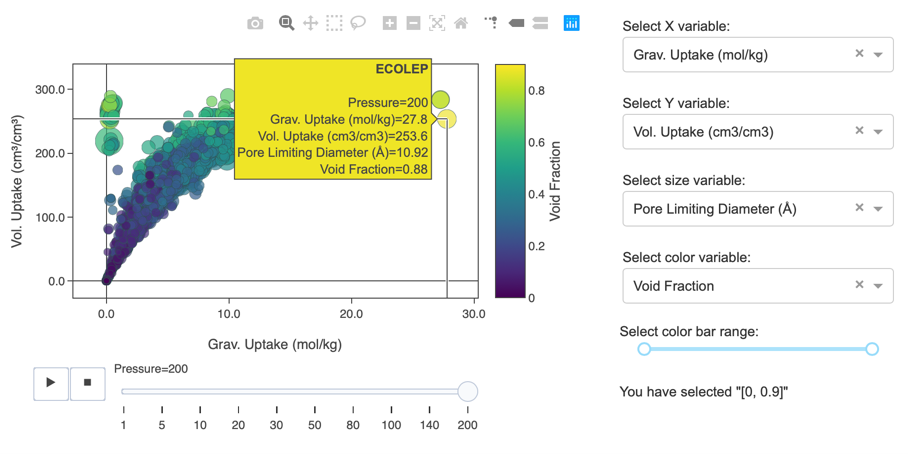
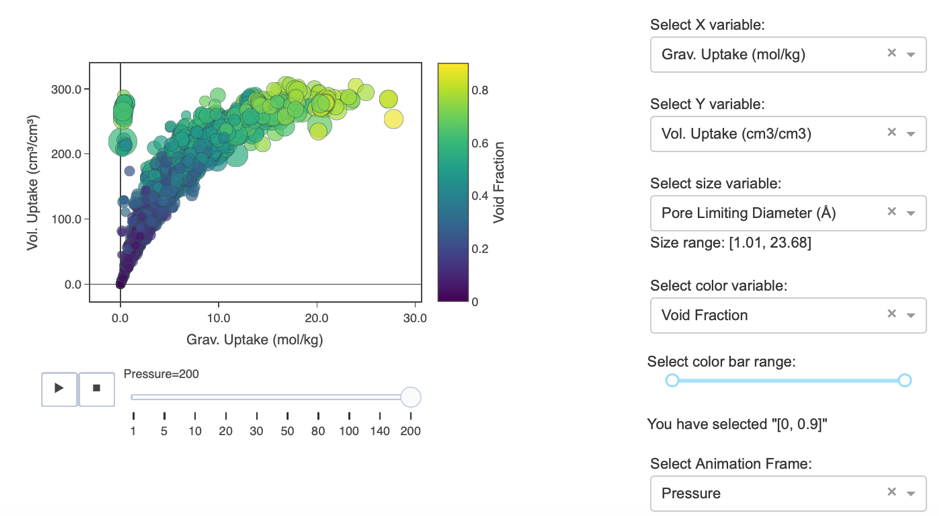
Deployed 89f0962 with MkDocs version: 1.1

diff --git a/index.html b/index.html
@@ -166,7 +166,7 @@
     Note: After a period of inactivity, Heorku shuts down the app's containers. Once the app gets a web request (the link above is clicked), it will wake up, but the initial response can take 10-20 seconds</li>
 </ul>
 <h2 id="about"><strong>About</strong></h2>
-<p><p>These tools aim to provide a reproducible and consistent data visualisation platform where experimental and computational researchers can use big data and statistical analysis to explore their data or the adsorption related data we provide to find the best materials for specific applications.  Improving from the <a href="http://aam.ceb.cam.ac.uk/visualisedata.html">original</a> Metal-organic Framework (MOF) Explorer, this tool now allows  individuals  to  upload  their  own  data  set  to  analyse  data  in  a  2D  and 3D environment, filter data through the interactive data table and also perform statistical analysis on top performing structures.</p>
+<p><p>These tools aim to provide a reproducible and consistent data visualisation platform where experimental and computational researchers can use big data and statistical analysis to explore their data or the adsorption related data we provide to find the best materials for specific applications.  Improving from the <a href="http://aam.ceb.cam.ac.uk/visualisedata.html">original</a> Metal-organic Framework (MOF) Explorer, this tool now allows  individuals  to  upload  their  own  data  set  to  analyse  data  in  a  2D  and 3D environment in a animation frame, filter data through the interactive data table and also perform statistical analysis on top performing structures.</p>
 <p align="center"> 
   <img src="https://raw.githubusercontent.com/aaml-analytics/mof-explorer/master/explorer-screenshot.png">
 </p>
@@ -177,9 +177,9 @@
 <strong>2.</strong>  The uploaded datasheet must have the structure name or identifier on its first column (shown in table 1). <br>
 <strong>3.</strong>  The uploaded datasheet must be completely populated (no blank cells). Blank cells can be replaced to ‘0’ using the ‘Replace All’ function in Excel <br>
 <strong>4.</strong>  If required, data must be transposed so that there is a single column stating the variables simulated with a column of the pressures used. Example data files before e.g. <code>AAML_Oxygen_Raw_Data.csv</code> and after transposition <code>AAML_Oxygen_Data.csv</code> can be found <a href="https://github.com/aaml-analytics/mof-explorer/tree/master/sample-data">here</a> <br>
-<strong>5.</strong> For the MOF Explorer Animation, pressures for the pressure frame must have the column heading ‘Pressure’. Include this column even if your data does not have multiple pressures and state the pressure your simulation has run on. <br>
+<strong>5.</strong> For the MOF Explorer Animation, a discrete numerical data variable column must be present in your data set. This is a column that contains integer type values (not floats). A suitable column for example would be a column containing different pressures used to run simulations/experiments of 1, 5, 10, 20 and 50 bar. Include this column even if your data does not have multiple pressures and state the pressure your simulation has run on as you must have at least one animation frame column type to run the MOF Explorer Animation tab. <br>
 <strong>6.</strong>  If you have the Structure Groupings (MOF families for example) in your dataset, the column must have the heading ‘Family’ (shown in table 1). <br>
-Example files showing datasets before and after being transposed can be seen in the <a href="https://github.com/aaml-analytics/mof-explorer/tree/master/sample-data">GitHub repository</a>. Excels formatting capabilities, Bash and Python were used to transpose and fit aforementioned files to the above criteria. <br></p>
+Example files showing datasets before and after being transposed can be seen in the <a href="https://github.com/aaml-analytics/mof-explorer/tree/master/sample-data">GitHub repository</a>. Excels formatting capabilities, Bash and Python were and can be used to transpose and fit aforementioned files to the above criteria. <br></p>
 <p><strong><em>Table 1: Example File Upload</em></strong></p>
 <table>
 <thead>
@@ -329,7 +329,7 @@ Example files showing datasets before and after being transposed can be seen in 
 <strong><em>Figure 10: Reset Camera to last save </em></strong> <br></p>
 <h2 id="mof-explorer-animation"><strong>MOF Explorer Animation</strong></h2>
 <h4 id="auto-scaling-animations"><strong>Auto scaling animations</strong></h4>
-<p>With all animations, auto range in frames is currently not supported in Plotly. Therefore, the user must slide the maximum pressure frame and press the auto scale button on the toolbar at the top right side of the plot. The user can then press play and the range will auto scale automatically. 
+<p>With all animations, auto range in frames is currently not supported in Plotly. Therefore, the user must slide the maximum animation frame and press the auto scale button on the toolbar at the top right side of the plot. The user can then press play and the range will auto scale automatically. 
 <p>
   <img width="250" height="50" src="https://raw.githubusercontent.com/aaml-analytics/mof-explorer/master/MkDocs/autoscale.png">
 </p>
@@ -338,7 +338,7 @@ Example files showing datasets before and after being transposed can be seen in 
 <p><p>
   <img width="450" height="250" src="https://raw.githubusercontent.com/aaml-analytics/mof-explorer/master/MkDocs/2d-anim.png">
 </p>
-The 2D Animation Environment provides a 2, 3, and 4 Dimensional variable environment to explore specific structures against pressure to find the best materials for the users applications. Pressing the ‘2’, ‘3’, ‘4’ tab plots a 2D, 3D and 4D variable environment respectively. Populate ALL the dropdowns to produce your plot. The tab of the dashboard will be ‘Updating…’ and then return to ‘Dash’ once your command has been fully executed. Clicking Play and pause will play and pause your animation respectively. You can also use the slider to pause the animation at a specific pressure.</p>
+The 2D Animation Environment provides a 2, 3, and 4 Dimensional variable environment to explore specific structures against pressure to find the best materials for the users applications. Pressing the ‘2’, ‘3’, ‘4’ tab plots a 2D, 3D and 4D variable environment respectively. Populate ALL the dropdowns to produce your plot. The tab of the dashboard will be ‘Updating…’ and then return to ‘Dash’ once your command has been fully executed. Clicking Play and pause will play and pause your animation respectively. You can also use the slider to pause the animation at a specific frame.</p>
 <h4 id="zoom-in-animation-tools"><strong>Zoom in animation tools</strong></h4>
 <p>Double clicking on one structure will result in the plot focussing on said single structure. Running the animation will allow you to see the focussed structure during the animation frame. To return the standard plot double click the plot. 
 <p>
@@ -346,7 +346,7 @@ The 2D Animation Environment provides a 2, 3, and 4 Dimensional variable environ
 </p>
 <strong><em>Figure 12: Zoom in tool</em></strong> </p>
 <h3 id="3d-animation-environment"><strong>3D Animation Environment</strong></h3>
-<p>The 3D Animation Environment provides a 5-Dimensional variable environment to explore specific structures against pressure to find the best materials for the users applications. Populate ALL the dropdowns to produce your plot. The tab of the dashboard will be ‘Updating…’ and then return to ‘Dash’ once your command has been fully executed. Clicking Play and pause will play and pause your animation respectively. You can also use the slider to pause the animation at a specific pressure.
+<p>The 3D Animation Environment provides a 5-Dimensional variable environment to explore specific structures against an animation frame of choice to find the best materials for the users applications. Populate ALL the dropdowns to produce your plot. The tab of the dashboard will be ‘Updating…’ and then return to ‘Dash’ once your command has been fully executed. Clicking Play and pause will play and pause your animation respectively. You can also use the slider to pause the animation at a specific frame.
 <p>
   <img width="450" height="250" src="https://raw.githubusercontent.com/aaml-analytics/mof-explorer/master/MkDocs/3d-anim.png">
 </p></p>
@@ -418,7 +418,7 @@ Populate ALL the dropdowns and radio items to produce your plot. The tab of the 
 <p><br>
 <sup>1</sup> If you have spaces or special characters (including -), these must be wrapped in quotes. Single quotes, double quotes, or backticks work. If you have quotes in the string, you can use a different quote, or escape the quote character. E.g. ‘Hello “There”! ’and “ Hello \ ”There! \ ” ” </p>
 <h2 id="statistical-analysis-of-top-structures"><strong>Statistical Analysis of Top Structures</strong></h2>
-<p>All structures, or top performing structures (1%, 5% or 10% of all structures) can be analysed in accordance to a set variable decided by the user e.g. Deliverable Capacity. In the violin plot, geometric properties can then be analysed against pressure to determine Q1, Q3, IQR, mean, median, maximum and minimum points for a dataset of the users choice, alongside the distribution of MOFs in said violin plot. In the distribution plot, the number of structures against a variable in the users data frame can be analysed to determine the spread of structures in the users data. The user can also decide if they would like the absolute data or original data to be analysed. The distribution can be further filtered by MOF families (if the user has uploaded this information in its data frame). An animation feature is also available to view these frames in accordance to pressure. <br></p>
+<p>All structures, or top performing structures (1%, 5% or 10% of all structures) can be analysed in accordance to a set variable decided by the user e.g. Deliverable Capacity. In the violin plot, geometric properties can then be analysed against a discrete variable of choice to determine Q1, Q3, IQR, mean, median, maximum and minimum points for a dataset of the users choice, alongside the distribution of MOFs in said violin plot. In the distribution plot, the number of structures against a variable in the users data frame can be analysed to determine the spread of structures in the users data. The user can also decide if they would like the absolute data or original data to be analysed. The distribution can be further filtered by MOF families (if the user has uploaded this information in its data frame). An animation feature is also available to view these frames in accordance to a discrete variable of choice. <br></p>
 <h3 id="violin-plot"><strong>Violin Plot</strong></h3>
 <p><p>
   <img width="350" height="200" src="https://raw.githubusercontent.com/aaml-analytics/mof-explorer/master/MkDocs/violin-plot.png">
@@ -435,9 +435,9 @@ Populate ALL the dropdowns and radio items to produce your plot. The tab of the 
   <img width="250" height="200" src="https://raw.githubusercontent.com/aaml-analytics/mof-explorer/master/MkDocs/violin-range-slider.png">
 </p>
 <strong><em>Figure 17: Violin plot range slider</em></strong> </p>
-<p>Single clicking on a desired legend box will remove the respective violin plot from the graph. Single click on the same pressure in the legend will add the violin plot back into the graph. Using the range slider (tool directly below the x-axis) can also isolate one or multiple violin plots. Dragging the left and right toggle will produce the same reflection that is on the range slider.</p>
+<p>Single clicking on a desired legend box will remove the respective violin plot from the graph. Single click on the same X axis grouping in the legend will add the violin plot back into the graph. Using the range slider (tool directly below the x-axis) can also isolate one or multiple violin plots. Dragging the left and right toggle will produce the same reflection that is on the range slider.</p>
 <h3 id="distrbution-plot"><strong>Distrbution Plot</strong></h3>
-<p>Like mentioned in MOF Explorer Animations, with all animations, auto range in frames is currently not supported in Plotly. Therefore, the user must slide the maximum pressure frame and press the auto scale button on the toolbar at the top right side of the plot. The user can then press play and the range will auto scale automatically.</p>
+<p>As mentioned in MOF Explorer Animations, with all animations, auto range in frames is currently not supported in Plotly. Therefore, the user must slide the maximum animation frame and press the auto scale button on the toolbar at the top right side of the plot. The user can then press play and the range will auto scale automatically.</p>
 <p>The user must populate ALL the dropdowns and radio items to produce a graph. If the dataset uploaded does not provide the structures of families ‘None’ grouping will apply. The rugged plot above the histogram indicates the distribution of structures against the X variable selected. The histogram represents the X variable selected against the number of structures that apply.
 <p>
   <img width="350" height="200" src="https://raw.githubusercontent.com/aaml-analytics/mof-explorer/master/MkDocs/dist-plot.png">
@@ -510,5 +510,5 @@ CB3 0AS</p>
 
 <!--
 MkDocs version : 1.1
-Build Date UTC : 2020-04-14 13:22:03
+Build Date UTC : 2020-04-15 17:00:47
 -->
